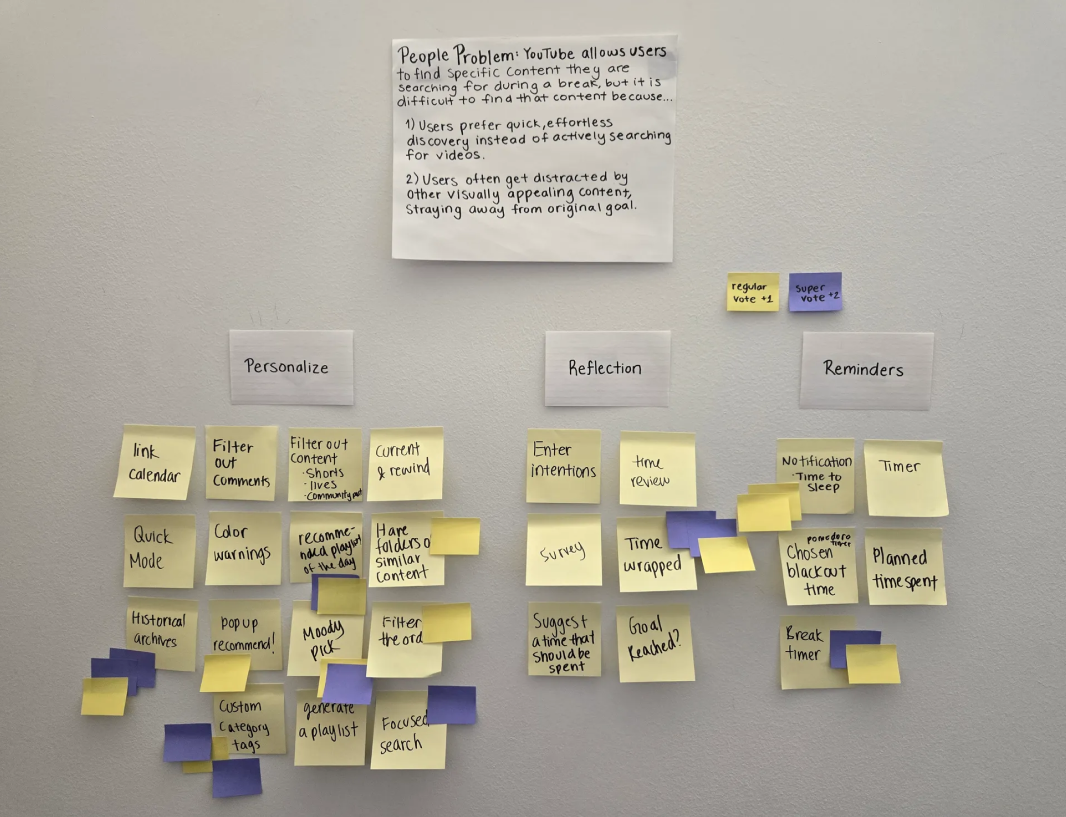
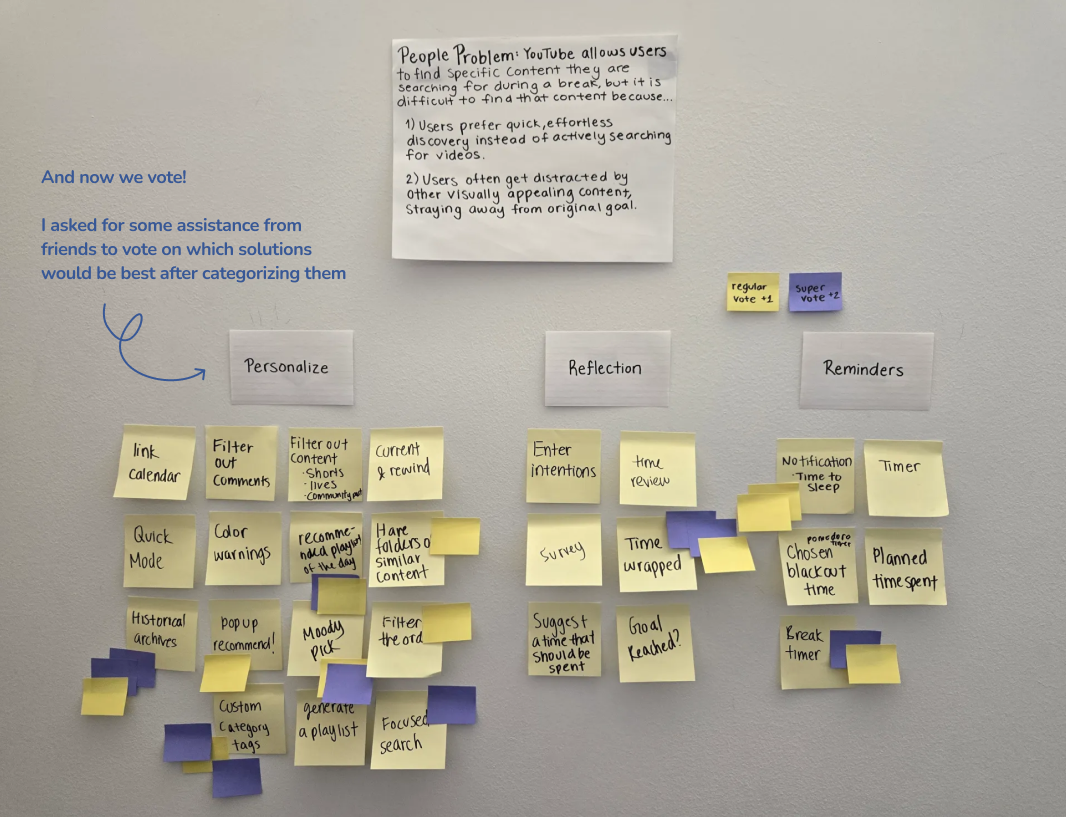
Finished YouTube Case Study

Changed region(s): [[0.031, 0.2142, 0.3096, 0.3672], [0.0929, 0.3978, 0.1238, 0.4284]]

diff --git a/src/data/ProjectData.js b/src/data/ProjectData.js
@@ -16,7 +16,7 @@ export const ProjectData = [
         label: "Overview",
         content: [
           { Team: "4 developers" },
-          { Role: "Developer & Artist" },
+          { Role: "Developer &amp; Artist" },
           { Timeline: "Fall 2025 \n(3 weeks)" },
           { Tools: "OCaml, Raylib, \nMedibang Paint Pro" },
         ],
@@ -25,7 +25,7 @@ export const ProjectData = [
         id: "description",
         label: "Description",
         content:
-          "Oh My Camel is a game created for the CS 3110 (Data Structures and Functional Programming) course. A camel pet simulator game with turn-based logic. The player starts with a petcamel with happiness, hunger, and hygiene statistics set at a maximum value of 100 and a certainamount of coins. \n\nThe player can choose what to do in each turn/day: play with a pet, feed a pet, clean a pet, or play mini games.",
+          "Oh My Camel is a game created for CS 3110 (Data Structures and Functional Programming). It is a turn-based camel pet simulator. The player starts with a pet camel whose happiness, hunger, and hygiene stats begin at a maximum of 100, along with a set amount of coins. \n\nEach turn (or day), the player chooses what to do: play with the camel, feed it, clean it, or play minigames.",
       },
       {
         id: "play-through",
@@ -34,7 +34,7 @@ export const ProjectData = [
         videos: [
           { name: "Jumping Game", link: "./videos/Jumping.mp4" },
           { name: "Memory Game", link: "./videos/Memorygame.mp4" },
-          { name: "Number Game & Inventory", link: "./videos/numberGame.mp4" },
+          { name: "Number Game &amp; Inventory", link: "./videos/numberGame.mp4" },
           { name: "Dune!", link: "./videos/Dune!.mp4" },
         ],
       },
@@ -42,7 +42,7 @@ export const ProjectData = [
         id: "reflection",
         label: "Reflection",
         content:
-          "Overall, working on Oh My Camel was an incredibly fun and rewarding experience. It was a fast-paced, highly collaborative coding project that grew to over 1,600 lines of code and required constant iteration and refinement of our ideas. As a team, we explored multiple concepts, evaluating what was both feasible and impactful, in order to meet the project requirements and complete it within the allotted time. \n\n Through this process, I learned a great deal about collaboration and the realities of building a project as a group. Balancing creativity with practicality. I also gained valuable experience in prioritizing features, understanding when to refine ideas, and recognizing which features to set aside to keep the project reasonable, functional, and enjoyable for everyone.",
+          "Working on Oh My Camel was an incredibly fun and rewarding experience. It was a fast-paced, highly collaborative project that grew to over 1,600 lines of code and required constant iteration on our ideas. As a team, we explored multiple concepts and weighed what was both feasible and impactful so we could meet the project requirements within the allotted time. \n\nThrough this process, I learned a great deal about collaboration and the realities of building a project as a group, especially how to balance creativity with practicality. I also gained experience prioritizing features: knowing when to refine an idea and when to set one aside to keep the project reasonable, functional, and enjoyable for everyone.",
       },
     ],
   },
@@ -56,7 +56,7 @@ export const ProjectData = [
         label: "Overview",
         content: [
           { Team: "2 developers" },
-          { Role: "Developer & Artist" },
+          { Role: "Developer &amp; Artist" },
           { Timeline: "Spring 2023 \n(1 month)" },
           { Tools: "Java, \nMedibang Paint Pro" },
         ],
@@ -65,7 +65,7 @@ export const ProjectData = [
         id: "description",
         label: "Description",
         content:
-          "Quack a Goose is a fun, fast-paced game inspired by Whack-a-Mole, where players try to quack geese as they pop up on the screen. Within a 30-second time limit, players test their reaction speed by hitting as many geese as possible, with the challenge increasing as more geese spawn over time. But there’s a twist! The game features an alternate mode called “People,” where—thanks to volunteers from our AP Computer Science A class—photos of fellow CS students and even our teacher take on the role of the geese, adding a personalized and humorous element to the gameplay.",
+          "Quack a Goose is a fun, fast-paced game inspired by Whack-a-Mole, where players try to quack geese as they pop up on the screen. Within a 30-second time limit, players test their reaction speed by hitting as many geese as possible, with the challenge increasing as more geese spawn over time. But there’s a twist! The game features an alternate mode called “People,” where, thanks to volunteers from our AP Computer Science A class, photos of fellow CS students and even our teacher take the place of the geese, adding a personal and humorous touch to the gameplay.",
       },
       {
         id: "play-through",
@@ -80,7 +80,7 @@ export const ProjectData = [
         id: "reflection",
         label: "Reflection",
         content:
-          "For our final project, we presented Quack a Goose! to our AP Computer Science A class, and it was chosen as the second-best project by our peers. And of course, the $5 Amazon gift card we earned felt like a fun and rewarding bonus after all the hard work. Creating Quack a Goose was both an enjoyable and educational experience that challenged me to think deeply about game design, user engagement, and collaboration. Designing a fast-paced game within a 30-second time limit required careful consideration of pacing and difficulty, especially as more geese spawned over time to keep players engaged. This project also marked my first time working collaboratively on a large-scale coding project, which taught me how important communication and teamwork are when developing complex programs. One of the most rewarding aspects of the project was adding the “People” game mode. Incorporating photos of classmates and our teacher, with their permission, made the game more personal and entertaining, and demonstrated how small creative decisions can significantly enhance the user experience. This feature pushed me to think beyond basic functionality and consider how personalization and humor can make a project more memorable.",
+          "We presented Quack a Goose! to our AP Computer Science A class as our final project, and our peers voted it the second-best project. The $5 Amazon gift card we earned was a fun bonus after all the hard work. Creating Quack a Goose was both enjoyable and educational, and it challenged me to think deeply about game design, user engagement, and collaboration. Designing a fast-paced game within a 30-second time limit required careful attention to pacing and difficulty, especially as more geese spawned over time to keep players engaged. This project was also my first time working collaboratively on a large coding project, which taught me how important communication and teamwork are when developing complex programs. One of the most rewarding parts was adding the “People” game mode. Incorporating photos of classmates and our teacher, with their permission, made the game more personal and entertaining, and showed me how small creative decisions can significantly improve the user experience. This feature pushed me to think beyond basic functionality and consider how personalization and humor can make a project more memorable.",
       },
     ],
   },
@@ -105,13 +105,13 @@ export const ProjectData = [
         id: "context",
         label: "Context",
         content:
-          "Study Buddy is a mobile application created for Cornell University students to help them find compatible study partners based on shared study habits, schedules, and preferences. By reducing the friction of coordinating study sessions, Study Buddy aims to ease academic stress during high-pressure periods such as prelims and finals, while fostering accountability, collaboration, and community among students.",
+          "Study Buddy is a mobile app created for Cornell University students to help them find compatible study partners based on shared study habits, schedules, and preferences. By reducing the friction of coordinating study sessions, Study Buddy aims to ease academic stress during high-pressure periods such as prelims and finals, while fostering accountability, collaboration, and community among students.",
       },
       {
         id: "problem-space",
         label: "Problem Space",
         content:
-          "Students often experience intense academic pressure, especially during prelim and final seasons. While studying with others can improve motivation and understanding, finding a compatible study partner is challenging. Students struggle with: \n\n• Mismatched study styles (quiet vs. collaborative)\n• Scheduling conflicts\n• Awkward or time-consuming coordination through group chats\n• Lack of a centralized platform for finding study companions\n\n",
+          "Students often experience intense academic pressure, especially during prelim and finals season. While studying with others can improve motivation and understanding, finding a compatible study partner is challenging. Students struggle with: \n\n• Mismatched study styles (quiet vs. collaborative)\n• Scheduling conflicts\n• Awkward or time-consuming coordination through group chats\n• No centralized platform for finding study companions\n\n",
         peopleProblem:
           "How might we make it easier for students to find the right people to study with during high-stress academic periods?",
       },
@@ -119,7 +119,7 @@ export const ProjectData = [
         id: "user-personas",
         label: "User Personas",
         content:
-          "As this was a fast-paced, one-week project, there was limited time to conduct in-depth user research. To guide our design decisions, we created two representative personas based on common student experiences at Cornell, informal conversations with peers, and our own academic experiences. These personas helped us stay user-focused while prioritizing core needs and constraints.",
+          "Because this was a fast-paced, one-week project, there was limited time for in-depth user research. To guide our design decisions, we created two representative personas based on common student experiences at Cornell, informal conversations with peers, and our own academic experiences. These personas helped us stay user-focused while prioritizing core needs and constraints.",
         pictures: [
           "./photos/Persona1-studybuddy.svg",
           "./photos/Persona2-studybuddy.svg",
@@ -132,13 +132,13 @@ export const ProjectData = [
           {
             type: "text",
             value:
-              "I created low-fidelity sketches to quickly visualize and refine the core experience of Study Buddy, centering on swipe-based study partner matching, calendar-based planning, and group messaging to make organizing study sessions effortless.",
+              "I created low-fidelity sketches to quickly visualize and refine the core experience of Study Buddy, centered on swipe-based study partner matching, calendar-based planning, and group messaging to make organizing study sessions effortless.",
           },
           { type: "image", value: "./photos/LowFi-studdybuddy.png" },
           {
             type: "text",
             value:
-              "As a developer myself, I had to turn off my developer side and not constraint myself based on feasibility and how something is implemented, so I won't constraint what i could design based on feasibility in the early stage. After the low-fi and discussing constraints with the development team, we determined that within the limited timeframe we could realistically implement the core features, including swipe-based profile matching, group chat, and study partner matches.",
+              "As a developer myself, I had to switch off my developer mindset during the early stages so that feasibility and implementation details wouldn't limit what I designed. After sharing the low-fi sketches and discussing constraints with the development team, we determined that within the limited timeframe we could realistically build the core features: swipe-based profile matching, group chat, and study partner matches.",
           },
         ],
       },
@@ -180,8 +180,8 @@ export const ProjectData = [
       },
       {
         id: "problem",
-        label: "The problem",
-        heading: "My first problem statement was too personal",
+        label: "Problem",
+        heading: "How did my first problem statement hold up?",
         content: [
           { type: "text", value: "I started this case study with a people problem drawn from my own viewing habits:" },
           {
@@ -245,16 +245,81 @@ export const ProjectData = [
         content: [
           {
             type: "text",
-            value: "Using the patterns from my interviews, I wrote How Might We statements, sketched out possible solutions, and voted on which ideas were worth pursuing.",
+            value: "Using the patterns from my interviews, I wrote How Might We statements, sketched possible solutions, and voted on which ideas were worth pursuing.",
           },
           { type: "image", value: "./photos/HMW.png" },
           { type: "image", value: "./photos/Solutions.png" },
           { type: "image", value: "./photos/vote.png" },
+          {
+            type: "text",
+            value: "I then sketched low-fidelity wireframes for the three most-voted and most feasible ideas:",
+          },
+          {
+            type: "list",
+            items: [
+              "Historical Archives: a playlist-like folder that resurfaces creators you watch often so you can rewatch their videos.",
+              "Break Timer: a Pomodoro-style timer, similar to what many third-party apps offer.",
+              "Custom Category Tags: letting users group videos together and get more recommendations like them in categorized folders.",
+            ],
+          },
+          {
+            type: "text",
+            value: "After gathering feedback, I moved forward with Custom Category Tags, which later became Creator’s Cuts.",
+          },
+          { type: "image", value: "./photos/YouTubeLow1.png" },
+          { type: "image", value: "./photos/YouTubeLow2.png" },
+        ],
+      },
+      {
+        id: "design-decisions",
+        label: "Design decisions",
+        heading: "What did I change, and what did I keep?",
+        content: [
+          {
+            type: "text",
+            value: "Entry point: how do users view their cuts?",
+          },
+          { type: "image", value: "./photos/DesignChoices1YT.png" },
+          {
+            type: "text",
+            value: "How do users edit and delete a cut?",
+          },
+          { type: "image", value: "./photos/DesignChoices2YT.png" },
+          // TODO: this block duplicated the one above (same text + image). Swap in the third decision, or delete.
+          {
+            type: "text",
+            value: "How do users edit and delete a cut?",
+          },
+          { type: "image", value: "./photos/DesignChoices2YT.png" },
+        ],
+      },
+      {
+        id: "reflections",
+        label: "Reflections",
+        heading: "What did I learn from my first case study?",
+        content: [
+          {
+            type: "text",
+            value: "Creator’s Cuts was my first full case study, and the biggest lesson came before I designed a single screen: my starting problem was my own. I assumed other viewers wanted what I wanted, short clips from long streams. Interviewing frequent and occasional YouTube users showed me the shared problem was different. People wanted to find something specific during a break without getting pulled away by eye-catching, unrelated videos.",
+          },
+          {
+            type: "highlight",
+            label: "Key takeaway",
+            value: "Validate the problem before solving it. My own frustration was a starting point, not evidence.",
+          },
+          {
+            type: "text",
+            value: "Working through How Might We statements, solution sketches, and voting taught me to go wide before narrowing down. I wireframed three directions and let feedback decide which one to pursue, rather than committing to my first idea. Keeping Felix in mind made later design decisions, like where cuts live and how they are edited, easier to make and explain.",
+          },
+          {
+            type: "text",
+            value: "Since this was a solo project, I was responsible for every step, from research to final flows. If I continued Creator’s Cuts, I would run usability tests on the final designs with the same viewers I interviewed to see whether sorting their feed into cuts actually helps them find what they came for.",
+          },
         ],
       },
     ],
   },
-    {
+  {
     id: "darn",
     subTitle: "DARN",
     image: Darn,
@@ -266,14 +331,14 @@ export const ProjectData = [
           { Team: "1 PM, 1 TPM, 2 developers, 3 designers" },
           { Role: "Designer" },
           { Timeline: "Summer 2026 \n(2 months)" },
-          { Tools: "Figma, Claude-Code, UiChemy, Wordpress" },
+          { Tools: "Figma, Claude Code, UiChemy, WordPress" },
         ],
       },
       {
         id: "description",
         label: "Description",
         content:
-          "DARN (Developmental Assets Resource Network) is a non-profit organization located in Bexley, Ohio. My role as a designer was to redesign their internal website and counselor/admin page to help manage resources better between counselors across different areas of Ohio. We met with a representative at DARN, and with the help of Claude Code and UiChemy, we pushed our designs quickly from Figma to WordPress and delivered a finished product. We connected with DARN through the Develop for Good program.",
+          "DARN (Developmental Assets Resource Network) is a nonprofit organization based in Bexley, Ohio. We connected with DARN through the Develop for Good program. As a designer, I helped redesign their internal website and counselor/admin pages to better manage resources among counselors across Ohio. We met with a DARN representative throughout the project, and with the help of Claude Code and UiChemy, we moved our designs quickly from Figma to WordPress and delivered a finished product.",
       },
     ],
   },
